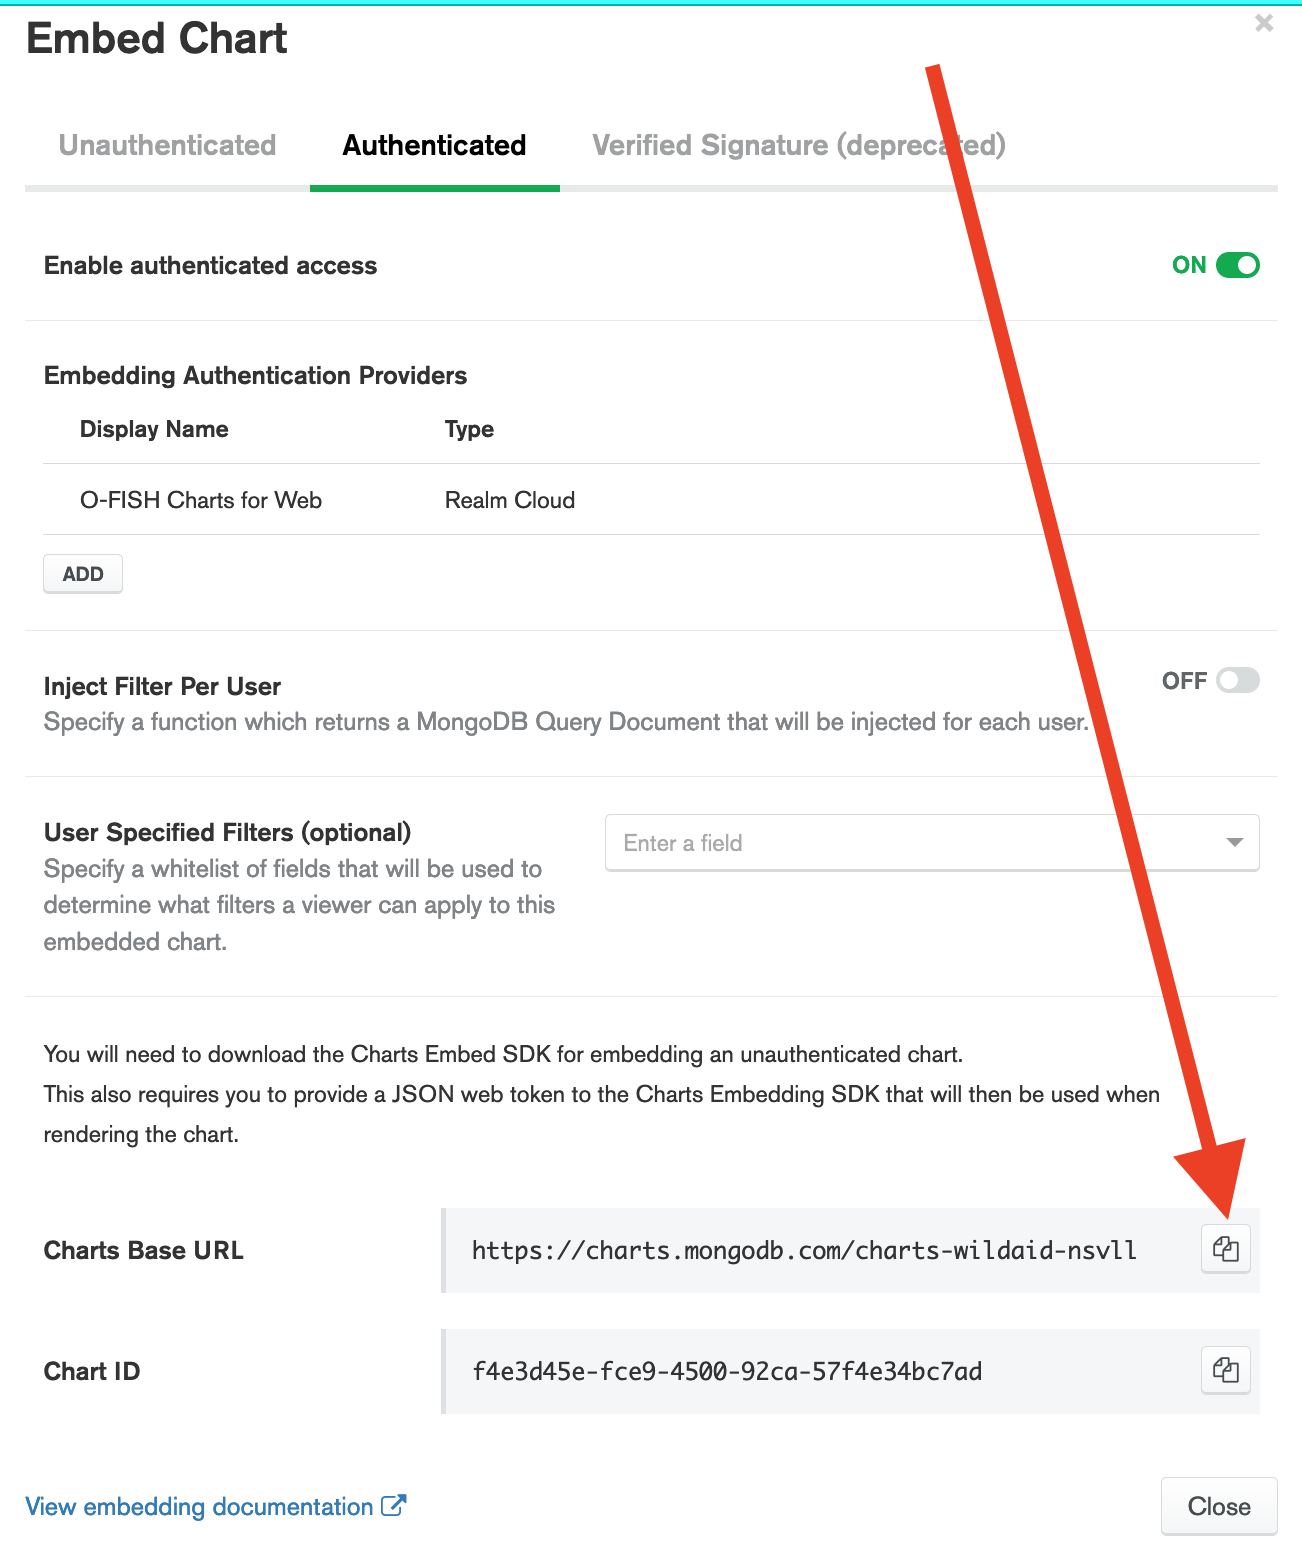
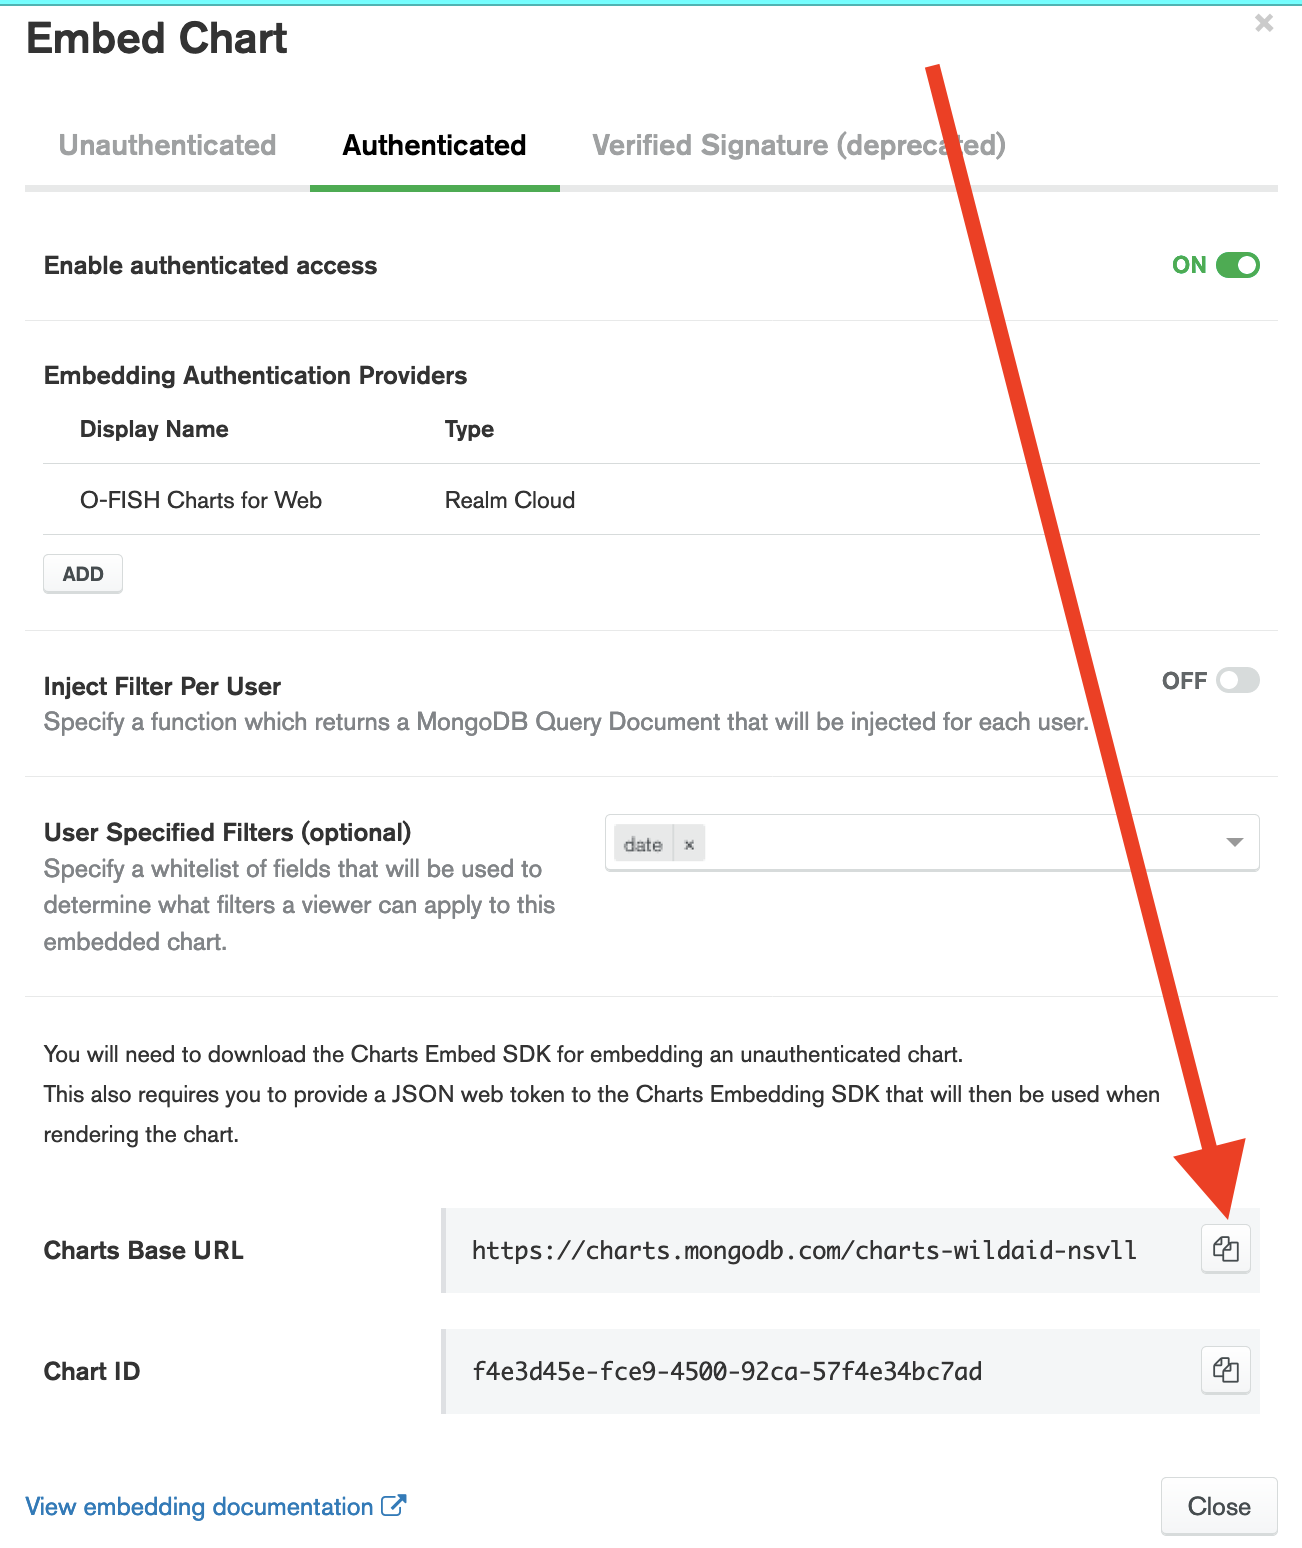
Updated Create Compliance for violations so that it works (#22)
took away query and used the filter instead.
Updated typos that made images not show up.
Also added a "date" filter in the embedding parts

diff --git a/_posts/build_charts/2020-06-12-Create-Compliance.md b/_posts/build_charts/2020-06-12-Create-Compliance.md
@@ -30,7 +30,10 @@ And you should see the total number of boarding reports in the window. Click "Sa
 1. On your dashboard, mouse over the chart until you see the ellipses. Click on the ellipses and select "Embed Chart":
 <img src="/assets/images/ClickBCEmbedMenu.png" style="border:1px solid black" width="100%"><BR><BR>
 
-1. Select the "Authenticated" section, and make sure "Enabled authenticated access" is set to "ON", and copy the Chart ID:
+1. Select the "Authenticated" section, make sure "Enabled authenticated access" is set to "ON", and set the User Specified Filters to "date":<BR>
+<img src="/assets/images/SetDateFilter.png" style="border:1px solid black" width="100%"><BR><BR>
+
+1. Copy the Chart ID:<BR>
 <img src="/assets/images/CopyBDChart.png" style="border:1px solid black" width="100%"><BR><BR>
 
 1. Select "Close" to close the "Embed Chart" window.<BR><BR>
@@ -38,32 +41,33 @@ And you should see the total number of boarding reports in the window. Click "Sa
 1. Paste the Chart ID into your web application's src/config.js file under "boardings-count-chart".<BR><BR><BR><BR>
 
 
-1. Now let's create the "Violations" number. On the Charts Dashboard, click "Add Chart"
-<img src="/assets/images/AddChart.png" style="border:1px solid black" width="70%"><BR><BR>
+1. Now let's create the "Violations" number. On the Charts Dashboard, mouse over the "Boardings" chart and click the three dots in the corner:<BR><BR>
+<img src="/assets/images/DuplicateBoardings.png" style="border:1px solid black" width="70%"><BR><BR>
+
 1. Set the title to "All Violations"
 <img src="/assets/images/ViolationsTitle.png" style="border:1px solid black" width="100%"><BR><BR>
-1. Set the Data Source to wildaid.BoardingReports
-<img src="/assets/images/ChooseBRDataSource.png" style="border:1px solid black" width="100%"><BR><BR>
-1. Choose a Chart type of Text:
-<img src="/assets/images/TableChartType.png" style="border:1px solid black" width="100%"><BR><BR>
 
-1. Choose a Chart subtype of Number:
-<img src="/assets/images/NumberChart.png" style="border:1px solid black" width="100%"><BR><BR>
+1. To filter for records that contain citations or warnings, select "Filter":<BR>
+<img src="/assets/images/AddChartFilter.png" style="border:1px solid black" width="100%"><BR><BR>
 
-1. Drag _id to the "Number" field and make sure the aggregation method is "COUNT":
-<img src="/assets/images/Count_id.png" style="border:1px solid black" width="100%"><BR><BR>
+Drag inspection -> summary -> violations -> disposition to "+ filter":<BR>
+<img src="/assets/images/DragDisposition.png" style="border:1px solid black" width="100%"><BR><BR>
 
-1. This chart shows all violations, so you want a count of boarding records that have a violation disposition of either Citation or Warning. To do this, paste the following query into the "Query" field at the top, and then click "Apply":<BR>
-`{"inspection.summary.violations.disposition": {$in: [ "Citation", "Warning" ] }}`<BR>
-<img src="/assets/images/ViolationsQuery.png" style="border:1px solid black" width="100%"><BR><BR>
+Select only Citation and Warning:<BR>
+<img src="/assets/images/ChooseCitationWarning.png" style="border:1px solid black" width="100%"><BR><BR>
 
-You will see the number of boarding reports that have any violation in the window. Click "Save and Close".
+And you should see the total number of boarding reports with violations in the window. Click "Save and Close":
+<img src="/assets/images/CloseSave.png" style="border:1px solid black" width="100%"><BR><BR>
 
-1. On your dashboard, mouse over the chart until you see the ellipses. Click on the ellipses and select "Embed Chart":
+1. On your dashboard, mouse over the "Violations" chart until you see the ellipses. Click on the ellipses and select "Embed Chart":
 <img src="/assets/images/ClickBCEmbedMenu.png" style="border:1px solid black" width="100%"><BR><BR>
 
-1. Select the "Authenticated" section, and make sure "Enabled authenticated access" is set to "ON", and copy the Chart ID:
+1. Select the "Authenticated" section, make sure "Enabled authenticated access" is set to "ON", and set the User Specified Filters to "date":<BR>
+<img src="/assets/images/SetDateFilter.png" style="border:1px solid black" width="100%"><BR><BR>
+
+1. Copy the Chart ID:<BR>
 <img src="/assets/images/CopyBDChart.png" style="border:1px solid black" width="100%"><BR><BR>
+
 1. Select "Close" to close the "Embed Chart" window.<BR><BR>
 
 1. Paste the Chart ID into your web application's src/config.js file under "citations-and-warnings"

diff --git a/_posts/build_charts/2020-06-12-Boardings-List.md b/_posts/build_charts/2020-06-12-Boardings-List.md
@@ -19,10 +19,10 @@ site: build
 <img src="/assets/images/BDTitle.gif" style="border:1px solid black" width="100%"><BR><BR>
 
 1. Drag and drop the "date" field to the Groups section, and turn binning off:
-<img src="/assets/images/date1.gif" style="border:1px solid black" width="100%"><BR><BR>
+<img src="/assets/images/Date1.gif" style="border:1px solid black" width="100%"><BR><BR>
 
 1. Customize the date field by clicking on "Customize" and then "date". Override the label and give it a capitalized first letter - "Date" - and add in the time:
-<img src="/assets/images/date2.gif" style="border:1px solid black" width="100%"><BR><BR>
+<img src="/assets/images/Date2.gif" style="border:1px solid black" width="100%"><BR><BR>
 
 1. Go back to the "Encode" section and drag the following fields to "Groups":<BR>
 vessel -> name<BR>

diff --git a/_posts/build_charts/2020-06-12-Embed-Boardings-List.md b/_posts/build_charts/2020-06-12-Embed-Boardings-List.md
@@ -26,6 +26,9 @@ Now that you have created the Boarding List Chart, let's embed it in your applic
 1. When you have a green verification section, click "Back to Embed Chart":
 <img src="/assets/images/VerifyEmbed.png" style="border:1px solid black" width="100%"><BR><BR>
 
+1. Set the User Specified Filters to "date":<BR>
+<img src="/assets/images/SetDateFilter.png" style="border:1px solid black" width="100%"><BR><BR>
+
 1. Copy the Charts Base URL:
 <img src="/assets/images/CopyURL.png" style="border:1px solid black" width="100%"><BR><BR>
 
